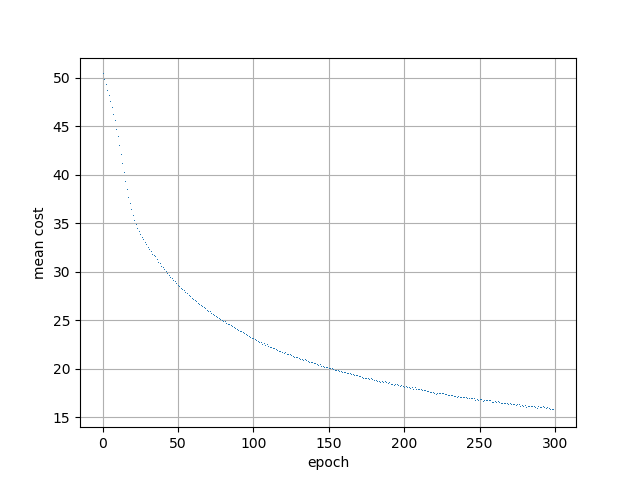
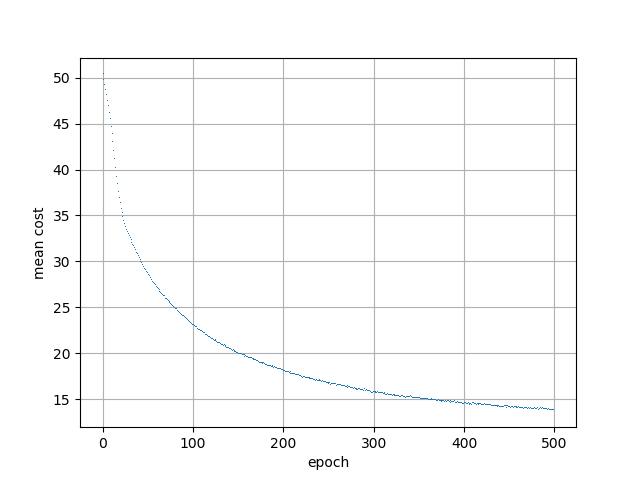
show elapsed time per 100 epochs.

diff --git a/crbm.py b/crbm.py
@@ -326,16 +326,19 @@ class CRBM(object):
         #vis_mf, vis_sample = sample_fn()
         #print orig_data[:,1:5]
         #print vis_mf[:,1:5]
+
+        start_time = timeit.default_timer()
+
         generated_series = np.empty((n_seq, n_samples, self.n_visible))
         for t in range(0, n_samples):
             print('\rGenerating frame %03d' % t, end='')
             vis_mf, vis_sample = sample_fn()
             generated_series[:, t, :] = vis_mf
-        print('')
+        print(', %5.3f sec' % (timeit.default_timer() - start_time))
         return generated_series
 
 
-def train_crbm(learning_rate=1e-3, training_epochs=300,
+def train_crbm(learning_rate=1e-3, training_epochs=500,
              dataset='./data/motion.mat', batch_size=100,
              n_hidden=100, delay=6):
     '''
@@ -433,15 +436,11 @@ def train_crbm(learning_rate=1e-3, training_epochs=300,
 
         mean_cost_list.append(numpy.mean(mean_cost))
         print('\rTraining epoch %03d, cost is %8.5f' % (epoch, mean_cost_list[-1]), end='')
-        if epoch % 50 == 0:
-            print('')
+        if epoch % 100 == 0:
+            print(', %6.3f sec' % (timeit.default_timer() - start_time))
+            start_time = timeit.default_timer()
 
     cost_plot(mean_cost_list)
-    end_time = timeit.default_timer()
-
-    pretraining_time = (end_time - start_time)
-
-    print(('Training took %f seconds' % pretraining_time))
 
     return crbm, batchdata
 
@@ -452,7 +451,7 @@ def cost_plot(mean_cost):
     plt.grid(True)
     plt.xlabel('epoch')
     plt.ylabel('mean cost')
-    plt.show()
+    plt.savefig('cost.png')
 
 def plot(data_idx, bd, generated_series):
     import matplotlib.pyplot as plt
@@ -475,7 +474,7 @@ def plot(data_idx, bd, generated_series):
     plt.setp(ltext, fontsize=9)
 
     plt.tight_layout()
-    plt.show()
+    plt.savefig('prediction.png')
 
 if __name__ == '__main__':
     crbm, batchdata = train_crbm()

diff --git a/README.md b/README.md
@@ -1,3 +1,3 @@
 [Conditional Restricted Boltzmann Machine](https://www.cs.toronto.edu/~hinton/absps/fcrbm_icml.pdf), forked from https://gist.github.com/gwtaylor/2505670, implemented by Graham W. Taylor. 
 
-<img src="https://raw.githubusercontent.com/ktaneishi/crbm/master/cost.png" width="400" alt="cost" /> <img src="https://raw.githubusercontent.com/ktaneishi/crbm/master/result.png" width="400" alt="predicion" />
+<img src="https://raw.githubusercontent.com/ktaneishi/crbm/master/cost.png" width="400" alt="cost" /> <img src="https://raw.githubusercontent.com/ktaneishi/crbm/master/prediction.png" width="400" alt="predicion" />
